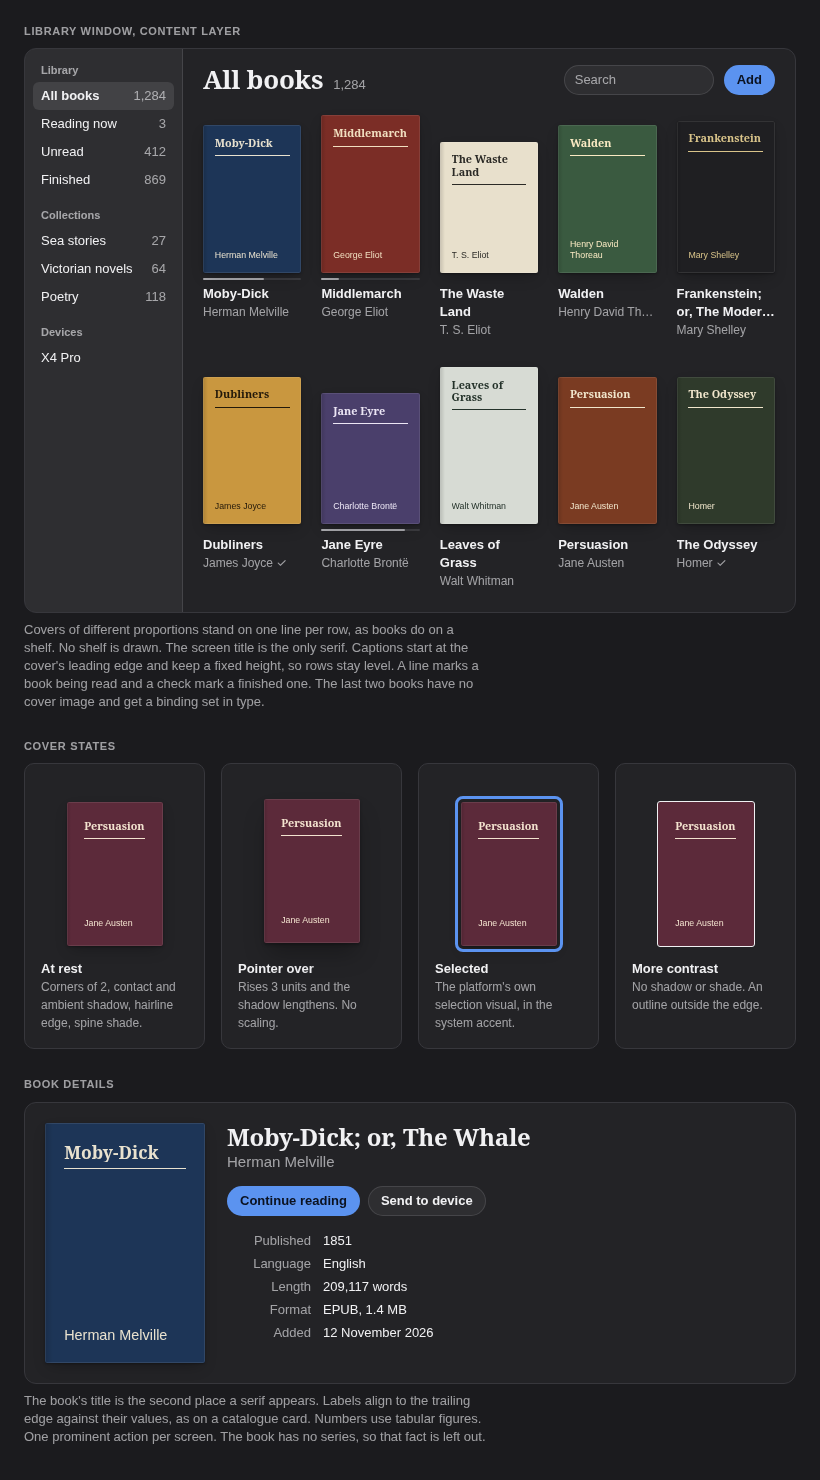
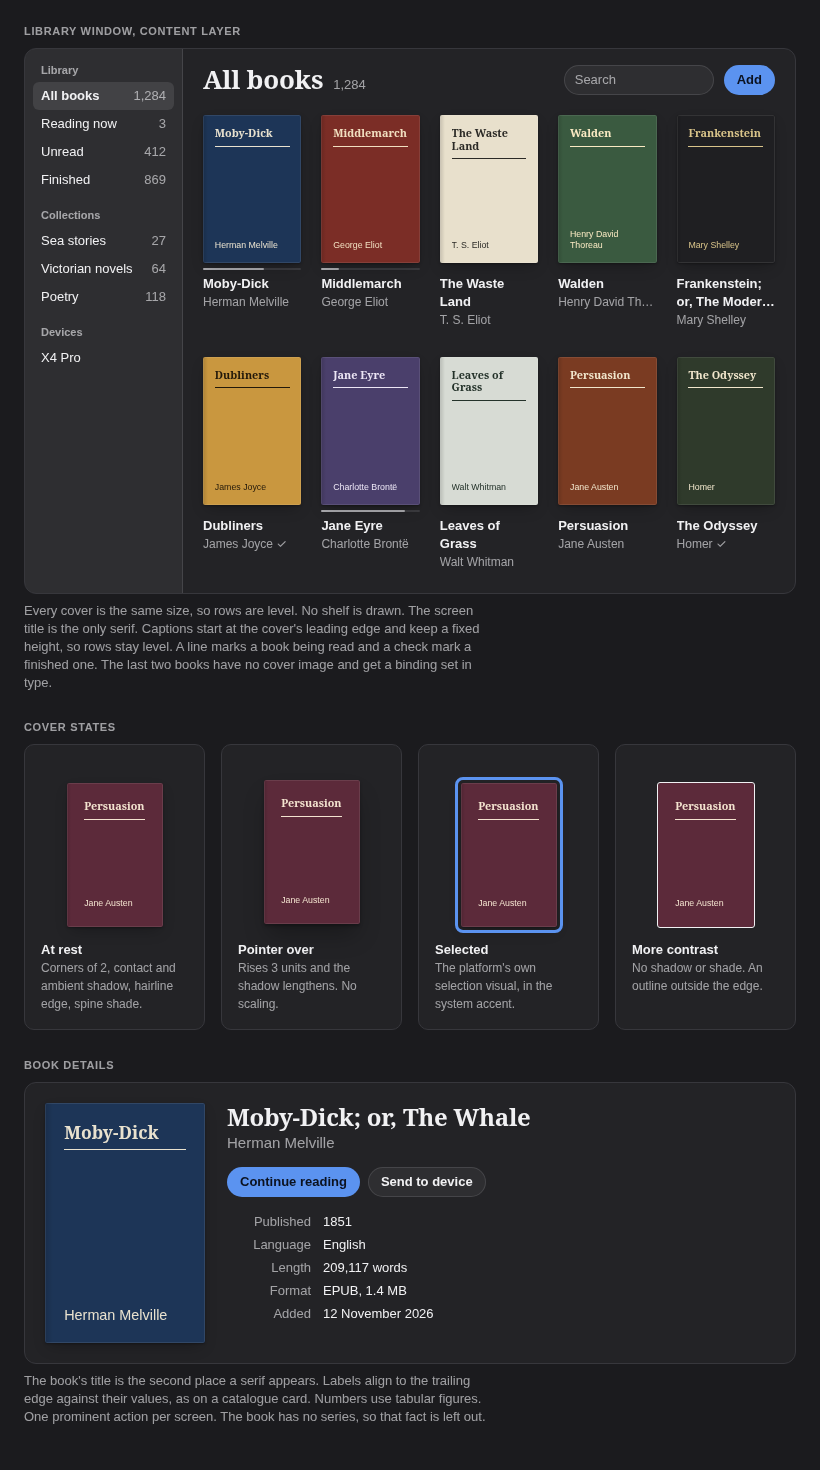
Draw every cover at one size in the interface guidelines
The first version showed each cover image at its own proportions, so tops in
a row sat at different heights. That made the grid look uneven with no reason
a reader of digital books would recognise. Every cover is now a 2:3 frame: an
image close to 2:3 fills it with a crop of at most 6% a side, and any other
image fits whole on its average colour.

Refs #91

diff --git a/docs/design/interface-sample.html b/docs/design/interface-sample.html
@@ -5,7 +5,7 @@
 <title>Interface sample</title>
 <!-- Illustrates docs/design/interface.md. Add #dark to the address for dark appearance.
      Regenerate the pictures with:
-     chromium --headless --hide-scrollbars --window-size=820,1480 --screenshot=interface-sample-light.png interface-sample.html
+     chromium --headless --hide-scrollbars --window-size=820,1470 --screenshot=interface-sample-light.png interface-sample.html
      and the same with interface-sample.html#dark for interface-sample-dark.png. -->
 <style>
   /* Binding type is 11% and 9% of the cover's width: 10.8px and 8.8px on a 98px cover, 17.6px and 14.4px at 160px. */
@@ -69,15 +69,15 @@
   .prog i { display: block; height: 100%; border-radius: 1px; background: var(--dim); }
   .prog.none { background: transparent; }
 
-  /* Stand-ins for artwork, in assorted proportions. */
+  /* Stand-ins for artwork. Every cover is a 2:3 frame. */
   .c1 { aspect-ratio: 2/3; background: #1d3557; color: #e9e2cf; }
-  .c2 { aspect-ratio: 5/8; background: #7b2d26; color: #f1dfc0; }
-  .c3 { aspect-ratio: 3/4; background: #e8e0cc; color: #2b2a26; }
+  .c2 { aspect-ratio: 2/3; background: #7b2d26; color: #f1dfc0; }
+  .c3 { aspect-ratio: 2/3; background: #e8e0cc; color: #2b2a26; }
   .c4 { aspect-ratio: 2/3; background: #3a5a40; color: #faeac3; }
-  .c5 { aspect-ratio: 11/17; background: #1f1f22; color: #d9c48a; }
+  .c5 { aspect-ratio: 2/3; background: #1f1f22; color: #d9c48a; }
   .c6 { aspect-ratio: 2/3; background: #c9973f; color: #23190a; }
-  .c7 { aspect-ratio: 3/4; background: #4a3f6b; color: #ece6f5; }
-  .c8 { aspect-ratio: 5/8; background: #d7dbd4; color: #24322a; }
+  .c7 { aspect-ratio: 2/3; background: #4a3f6b; color: #ece6f5; }
+  .c8 { aspect-ratio: 2/3; background: #d7dbd4; color: #24322a; }
   .c9 { aspect-ratio: 2/3; background: #5c2a3a; color: #f3e3cf; }
   /* Bindings set in type, from the page's palette. */
   .b-umber { aspect-ratio: 2/3; background: #7a3b22; color: #f1e6cc; }
@@ -143,7 +143,7 @@
     </div>
   </div>
 </div>
-<p class="note">Covers of different proportions stand on one line per row, as books do on a shelf. No shelf is drawn. The screen title is the only serif. Captions start at the cover's leading edge and keep a fixed height, so rows stay level. A line marks a book being read and a check mark a finished one. The last two books have no cover image and get a binding set in type.</p>
+<p class="note">Every cover is the same size, so rows are level. No shelf is drawn. The screen title is the only serif. Captions start at the cover's leading edge and keep a fixed height, so rows stay level. A line marks a book being read and a check mark a finished one. The last two books have no cover image and get a binding set in type.</p>
 
 <h2>Cover states</h2>
 <div class="row3">

diff --git a/docs/design/interface.md b/docs/design/interface.md
@@ -37,7 +37,7 @@ Four things, each of which you can measure on a screen.
 
 | Quality | Where it comes from |
 |---|---|
-| Order | Covers stand on one line per row. Every screen has one leading edge. Captions keep a fixed height. Numbers line up in columns. |
+| Order | Every cover is the same size and rows are level. Every screen has one leading edge. Captions keep a fixed height. Numbers line up in columns. |
 | Quiet | One prominent action per screen. No badges, and a message only for a problem that needs a decision. Nothing moves unless the reader caused it, apart from a cover fading in as it loads. |
 | Warmth | A serif for the names of things. Covers drawn as objects with weight. Paper tones in the reader. |
 | Books first | The frame takes its colour from the system. The only strong colour in the window is on the covers and the one prominent action. |
@@ -82,15 +82,15 @@ on Windows, CSS pixels in GTK and density-independent pixels on Android.
 
 - One leading edge per screen. The title, section headers, the first cover in each
   row and the first line of an empty state start at the same x position.
-- Covers in a row share their bottom edge. Covers have different proportions, so
-  their tops differ, as books of different heights do on a shelf. Never crop or
-  stretch a cover to a common shape. Scale it to the column width and let the row
-  take the height of its tallest cover.
+- Every cover in a grid is the same size: a frame two wide by three tall, as
+  wide as its column. Cover images come in many proportions, and
+  [the cover table](#covers) says how an image goes into the frame. Never stretch
+  an image.
 - The caption starts at the cover's leading edge. It is never centred under the
   cover. The title takes up to two lines and the author one, directly under the
   title's last line. The caption block keeps the height of three lines even when
-  the title needs one. Every item in a row therefore has the same height below
-  its cover, and the covers' bottom edges stay level.
+  the title needs one. Every item in a row is therefore the same height, and the
+  next row starts level.
 - Truncate at the end with an ellipsis. Wherever a title is truncated, the full
   title is available in a tooltip on pointer platforms and in book details
   everywhere.
@@ -139,13 +139,14 @@ A cover is the one thing in the window drawn as a physical object.
 
 | Property | Value |
 |---|---|
-| Shape | The image's own proportions. Corners of 2 units, 3 when the cover is 200 units wide or more. The platform's control radius never applies to a cover. |
+| Shape | A frame of 2:3, width to height, for every book. Corners of 2 units, 3 when the cover is 200 units wide or more. The platform's control radius never applies to a cover. |
+| Image in the frame | When the image's width is between 0.59 and 0.75 of its height, scale it to fill the frame and crop the overflow equally from both sides or from top and bottom. That covers most book covers and removes at most 6% from each side. Any other image, such as a square audiobook cover, is scaled to fit whole and centred, and the rest of the frame takes the image's average colour. Book details use the same frame. |
 | Edge | A 1 unit line inside the edge, white at 9% in dark appearance and black at 8% in light, so a cover the colour of the window keeps its outline. |
 | Spine | A shade over the leading 5% of the width, black at 14% fading to nothing. Leave it out when the cover is under 64 units wide. |
 | Widths | Small 96, medium 128, large 160. Medium is the default. With a row W wide and a chosen width c, the grid has floor((W + 20) / (c + 20)) columns and never fewer than two. The columns share the row equally, so covers are c wide or a little more. Only the two-column minimum can make them narrower than c. |
 | Gaps | 20 between columns. 12 from cover to caption. 28 from the caption block to the next row. The larger gap between rows makes each row read as a shelf. |
 | Progress | A line 2 units thick in the middle of the gap between cover and caption, as wide as the cover: a track in the separator colour, filled from the leading edge in the secondary label colour. Drawn only while a book is partly read. The gap is the same for every book. |
-| Loading | The catalogue stores each cover's pixel size and average colour when the book is imported. Until the image is decoded, draw a block of that size and colour, then cross-fade. If the catalogue has neither, use 2:3 and the platform's secondary fill colour. A cover never pops in and never shows a spinner. |
+| Loading | The catalogue stores each cover's average colour when the book is imported. Until the image is decoded, fill the frame with that colour, then cross-fade. If the catalogue has none, use the platform's secondary fill colour. A cover never pops in and never shows a spinner. |
 
 A book with no cover image gets a binding set in type. It is 2:3, a flat colour,
 with padding of 12% of its width. The title is at the top in the serif, semibold,
@@ -405,9 +406,11 @@ Each was the default taken to finish this page. Any can change.
 2. **The serif appears in three roles only.** Setting every book title under
    every cover in a serif would be more bookish, and also noisier and worse on
    low-density displays.
-3. **Covers keep their own proportions and share a bottom edge.** Cropping all
-   covers to 2:3 gives a tidier grid and is what most stores do. It was turned
-   down because it cuts artwork and removes the one cue that reads as a shelf.
+3. **Every cover is the same size, 2:3.** Showing each image at its own
+   proportions, with tops at different heights like books on a shelf, was the
+   first version. It was turned down because it made the grid look uneven for
+   no reason a reader of digital books would recognise. The cost is a crop of
+   up to 6% a side on covers close to 2:3.
 4. **A faint spine shade stays.** It is the only drawn hint that a cover is a
    book. Remove it if it reads as decoration on real covers.
 5. **Bundle one serif on GNOME and Android.** Neither guarantees a serif. Literata
